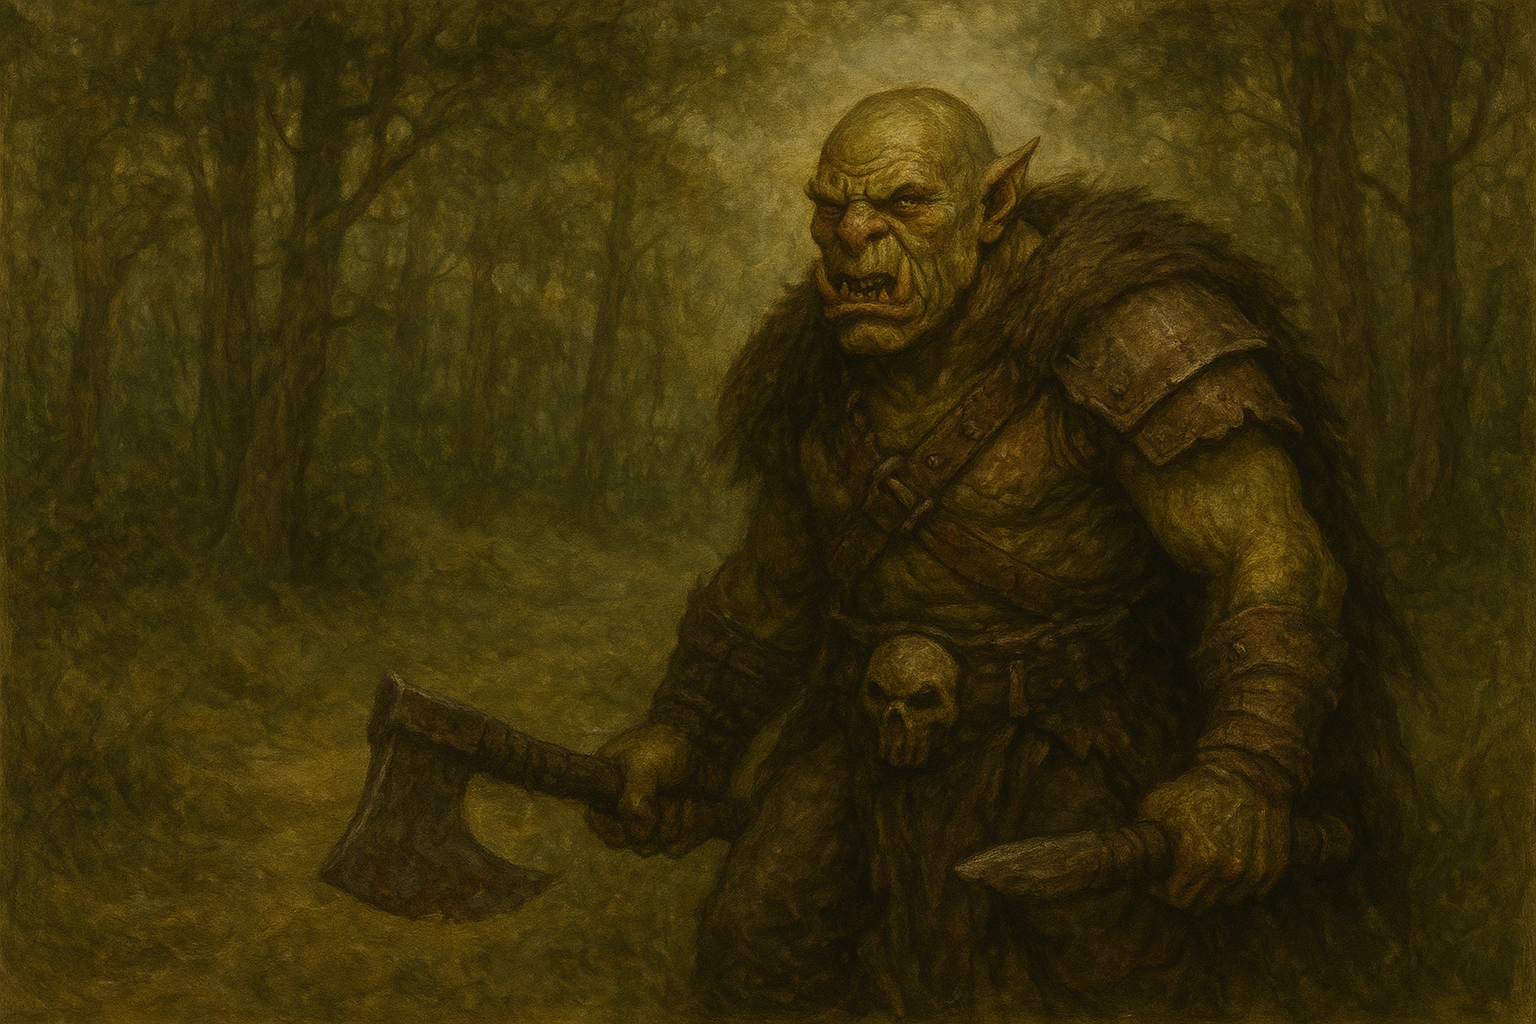
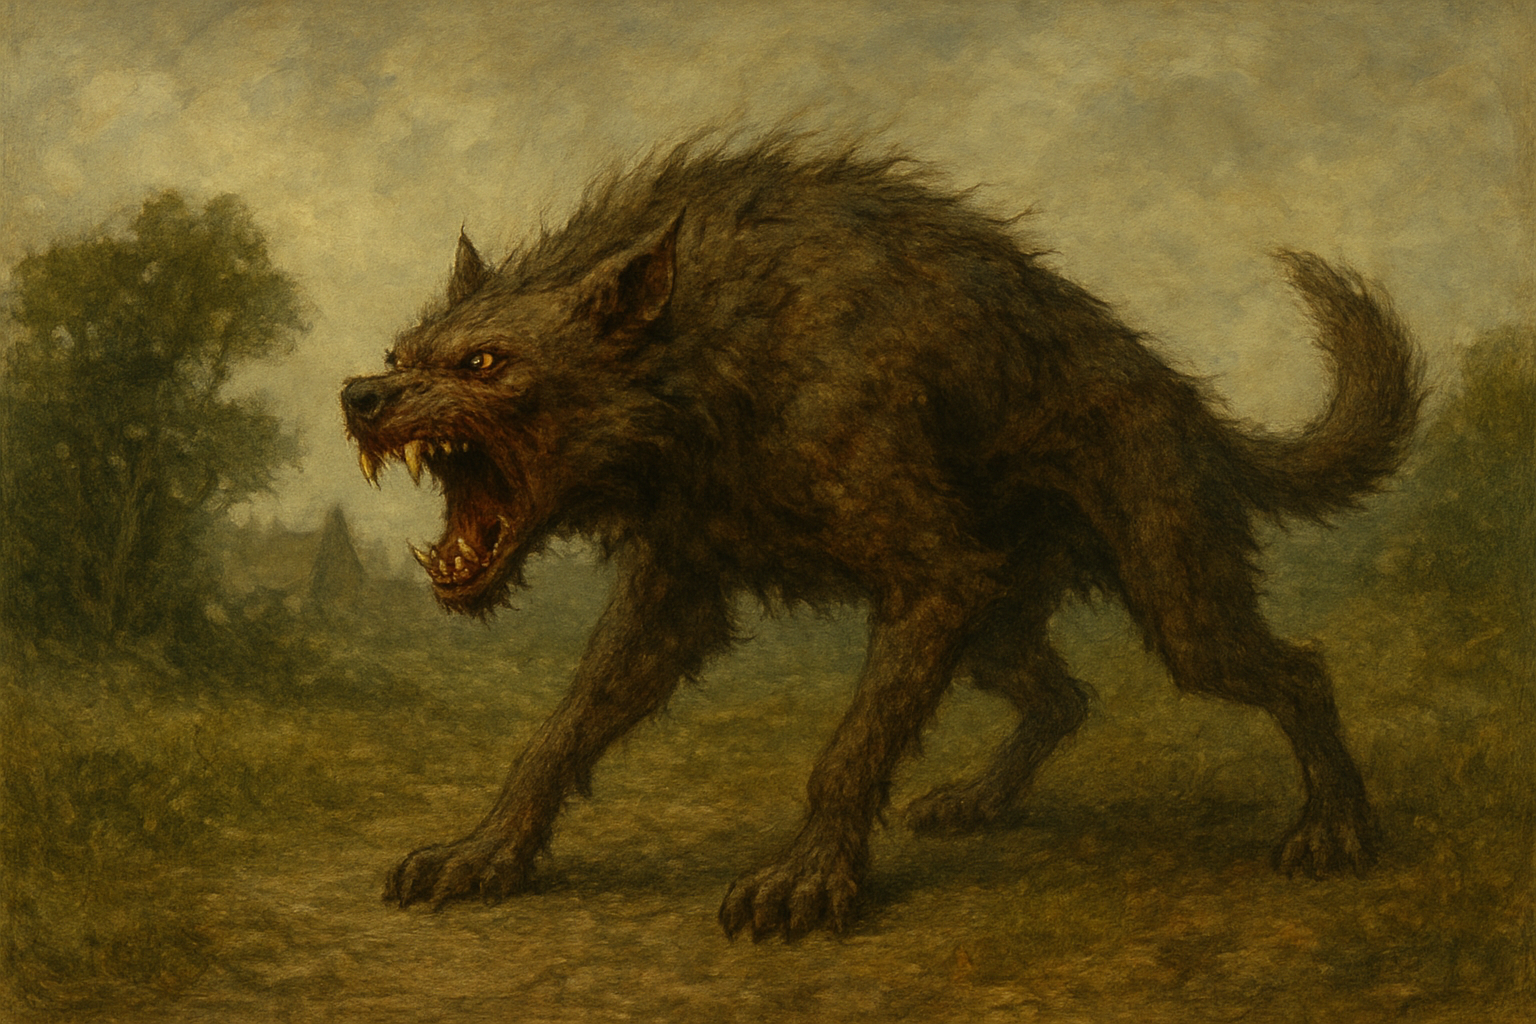
fixed some functions. added empty functions with console log to check if code works.

diff --git a/main.js b/main.js
@@ -1,6 +1,6 @@
 /* window.addEventListener("DOMContentLoaded", main);
 
-function main() {} */
+function startOfGame() {} */
 
 let xp = 0;
 let health = 100;
@@ -44,7 +44,7 @@ const locations = [
       "Hunt for orcs",
       "Raid the orc encampment",
     ],
-    //  "button function": [goArmory, goPotionShop, goHunt, goRaid],
+     "button function": [goArmory, goPotionShop, goHunt, goRaid],
     text: "You step into the town square. The usual bustle is muted, villagers move about with hurried steps and worried eyes, whispering among themselves. Nearby, two shops stand out, both look like they might prove useful in gathering some supplies and armour.",
   },
   {
@@ -54,13 +54,13 @@ const locations = [
       "Buy armour(10gold)",
       "Go back to town square",
     ],
-    // "button function": [buyWeapon, buyArmour, goTown],
+    "button function": [buyWeapon, buyArmour, goTown],
     text: "You step into the armory, and immediately a sharp, assessing gaze cuts through the dim light. An old man stands behind the counter—scarred, weathered, and clearly no stranger to battle. His eyes narrow slightly as he studies you.Well then,’ he rasps, ‘you here to buy some armor, or are you just taking in the scenery?",
   },
   {
     name: "Potion Shop",
     "button text": ["Buy health potion", "Go back to town square"],
-    // "button function": [buyPotion, goTown],
+    "button function": [buyPotion, goTown],
     text: "You step into the potion shop, greeted by swirling scents of herbs and faintly glowing vials. A soft, knowing gaze meets yours, an older woman stands behind the counter. There is something otherworldly about her, as if she sees more then she lets on.‘Welcome, dear one,’ she murmurs, her voice warm and strangely enchanting. ‘Seeking a potion… or simply wandering where curiosity leads you?’",
   },
   {
@@ -71,14 +71,14 @@ const locations = [
       "Fight Orc shaman",
       "Go back to town",
     ],
-    // "button function": [fightBeast, fightRaider, fightShaman, goTown],
+    "button function": [fightBeast, fightRaider, fightShaman, goTown],
     text: "Through the twisted trees, you catch sight of an orc encampment. Flames leap from crude fires, casting shadows that twitch like living things. Inside the camp you spot a rabid beast snarlig at the edge, fast but weak, and orc raider sharpening his axe, dangerous but beatable, and a dark orc shaman chanting by a smoky brazier, powerful and deadly... what do you do?",
   },
   {
     name: "Raid",
     "button text": ["Fight the Orc warlord", "Go back to town"],
-    // "button function": [fightWarlord, goTown],
-    text: "The chamber opens before you, dark and cavernous, torches sputtering along stone walls, the air heavy with the scent of battle and steel. At the center stands the orc warlord, fierce, battle, hardened, and radiating deadly strength. Every muscle tensed, every scar a story of conquest, he glares at you. This is the greatest challenge yet. Will you face him?",
+    "button function": [fightWarlord, goTown],
+    text: "The chamber opens before you, dark and cavernous, torches sputtering along stone walls, the air heavy with the scent of battle and steel. At the center stands the orc warlord, fierce, battle hardened, and radiating deadly strength. Every muscle tensed, every scar a story of conquest, he glares at you. This is the greatest challenge yet. Will you face him?",
   },
   {
     name: "fight",
@@ -124,4 +124,101 @@ function dontHelp() {
   }
 }
 
+
+
+function goTown () {
+  let changeBackground = document.body;
+  changeBackground.style.backgroundImage = `url(Images/image${(image = 3)}.png)`
+  update(locations[0]);
+  button3.style.display = "block";
+  button4.style.display = "block";
+}
+
+button1.onclick = goTown;
 button2.onclick = dontHelp;
+
+function update(location) {
+  monsterStats.style.display = "none";
+  button1.innerText = location["button text"][0];
+  button2.innerText = location["button text"][1];
+  button3.innerText = location["button text"][2];
+  button4.innerText = location["button text"][3];
+  button1.onclick = location["button function"][0];
+  button2.onclick = location["button function"][1];
+  button3.onclick = location["button function"][2];
+  button4.onclick = location["button function"][3];
+  text.innerHTML = location.text;
+  
+}
+
+function goArmory() {
+  let changeBackground = document.body;
+  changeBackground.style.backgroundImage = `url(Images/image${(image = 4)}.png)`;
+  update(locations[1]);
+  button3.style.display = "block";
+  button4.style.display = "none";
+}
+
+function goPotionShop () {
+  let changeBackground = document.body;
+  changeBackground.style.backgroundImage = `url(Images/image${(image = 5)}.png)`;
+
+  update(locations[2]);
+  button3.style.display = "none";
+  button4.style.display = "none";
+}
+
+function goHunt () {
+   let changeBackground = document.body;
+  changeBackground.style.backgroundImage = `url(Images/image${(image = 6)}.png)`;
+
+  update(locations[3]);
+  button3.style.display = "block";
+  button4.style.display = "block";
+}
+
+function goRaid () {
+  let changeBackground = document.body;
+  changeBackground.style.backgroundImage = `url(Images/image${(image = 10)}.png)`;
+
+  update(locations[4]);
+  button3.style.display = "none";
+  button4.style.display = "none";
+}
+
+function buyWeapon () {
+  console.log("buying weapon");
+}
+
+function buyArmour () {
+  console.log("buying armour");
+}
+
+function buyPotion () {
+  console.log("buying healt potion");
+}
+
+function fightBeast () {
+  let changeBackground = document.body;
+  changeBackground.style.backgroundImage = `url(Images/image${(image = 7)}.png)`;
+
+  console.log("fighting beast");
+}
+
+function fightRaider () {
+  let changeBackground = document.body;
+  changeBackground.style.backgroundImage = `url(Images/image${(image = 8)}.png)`;
+
+  console.log("fighting raider");
+}
+
+function fightShaman () {
+  let changeBackground = document.body;
+  changeBackground.style.backgroundImage = `url(Images/image${(image = 9)}.png)`;
+
+  console.log("fighting Shaman");
+}
+
+function fightWarlord () {
+  console.log("fighting warlord");
+}

diff --git a/styles.css b/styles.css
@@ -44,12 +44,14 @@ body {
 }
 
 #monsterstats {
-  display: none; /* put display none later */
   justify-content: space-evenly;
   border-bottom: 2px solid rgb(135, 68, 26);
   padding-block: 10px;
   background-color: rgba(0, 0, 0, 0.5);
   color: wheat;
+  display: flex;
+  justify-content: space-evenly;
+  display: none;
 }
 
 .controls {
